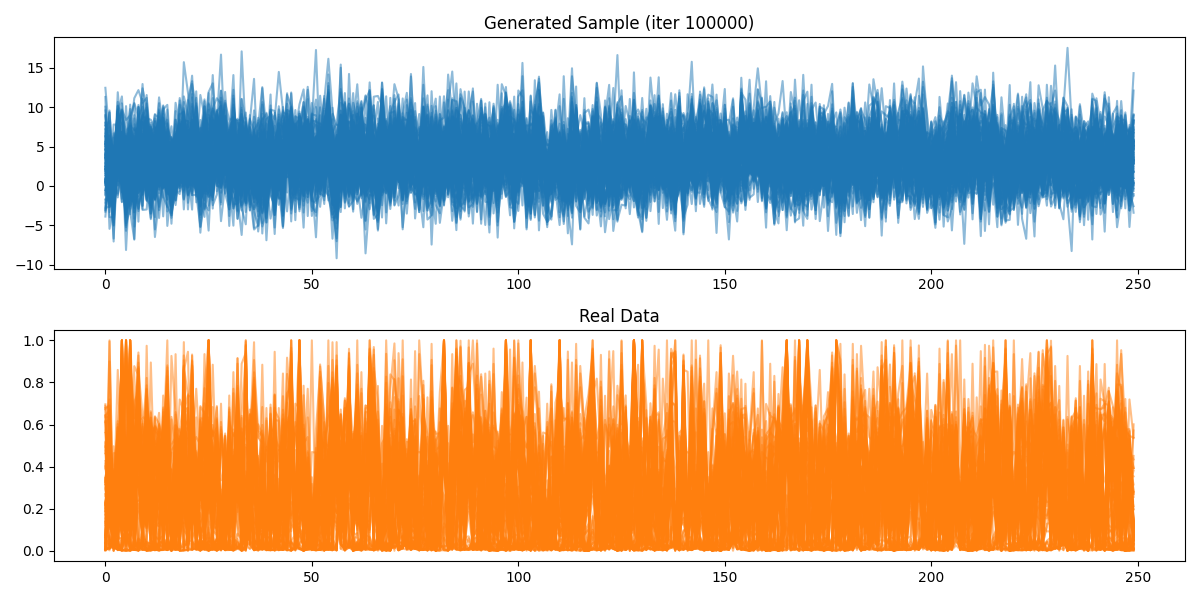
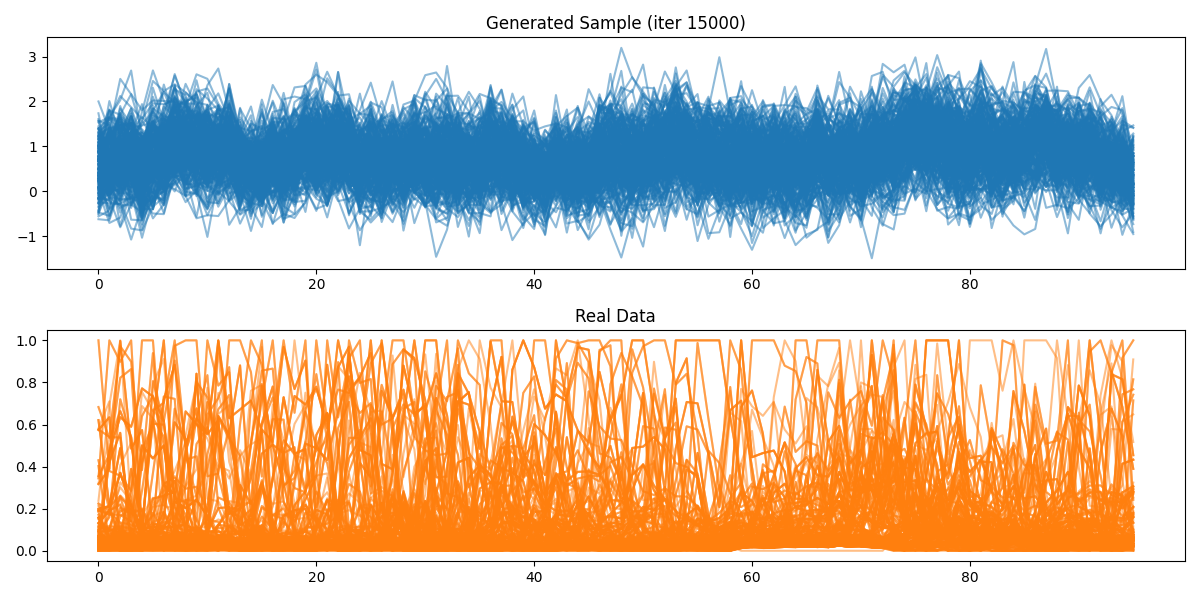
add

diff --git a/exp/exp_second_round/conditional_generativemodels/nf_train.py b/exp/exp_second_round/conditional_generativemodels/nf_train.py
@@ -23,13 +23,13 @@ def main():
     data_path = 'exp/data_process_for_data_collection_all/new_data_15minute_grid_nomerge.pkl'
     save_dir_root = 'exp/exp_second_round/conditional_generativemodels'
     N, L = 250, 96
-    random_sample_num = 32
+    random_sample_num = 4
     hidden_channels = 128
     K_blocks = 3
     lr = 2e-4
     weight_decay = 1e-4
-    max_iters = 100000
-    log_every = 100
+    max_iters = 2000001
+    log_every = 200
 
     subdir = os.path.join(save_dir_root, f'{random_sample_num}shot')
     os.makedirs(subdir, exist_ok=True)
@@ -40,10 +40,16 @@ def main():
     dataset = Dataloader_nolabel(data_path, batch_size=batch_size, split_ratio=split_ratio)
 
     # model & opt
-    model = nf.CNicemModel(input_c=N, hidden_c=hidden_channels, condition_c=random_sample_num, n_layers=K_blocks).to(device)
+    model = nf.CNicemModel(input_c=N, hidden_c=hidden_channels, condition_c=random_sample_num, n_layers=K_blocks, scaler_dim=L).to(device)
+    num_para = sum(p.numel() for p in model.parameters() if p.requires_grad)
     print(f"Model #params: {sum(p.numel() for p in model.parameters() if p.requires_grad)}")
     
-    opt = optim.AdamW(model.parameters(), lr=lr, weight_decay=weight_decay)
+    # load model
+    path = os.path.join(save_dir_root, f'{random_sample_num}shot/flow_{num_para}_{random_sample_num}shot.pt')
+    if os.path.exists(path):
+        model.load_state_dict(torch.load(path, map_location=device))
+    
+    opt = optim.Adam(model.parameters(), lr=lr, weight_decay=weight_decay)
 
     best = float('inf')
     ckpt_path = os.path.join(subdir, f'flow_{sum(p.numel() for p in model.parameters() if p.requires_grad)}_{random_sample_num}shot.pt')
@@ -57,13 +63,14 @@ def main():
         # per-sample, per-channel min-max
         x_min = x.min(dim=1, keepdim=True).values
         x_max = x.max(dim=1, keepdim=True).values
-        x0 = (x - x_min) / (x_max - x_min + 1e-15)
-
+        x0 = (x - x_min) / (x_max - x_min + 1e-15)   # (B,N,L)
+        x0 = x0[:, :, :]
         # condition: random N' channels
         cond = rs.random_sample(x0, 'random', random_sample_num).to(device)
 
         # forward
-        z, log_det = model.forward(x0, cond)
+        fake_con = torch.ones_like(cond)
+        z, log_det = model.forward(x0, fake_con)
         loss = 0.5 * (z**2).sum(dim=(1,2)) - log_det
         
         loss = loss.mean()
@@ -73,7 +80,7 @@ def main():
         loss.backward()
         opt.step()
         
-        print(f"iter {it}: loss = {loss.item():.4f}, best = {best:.4f}")
+        print(f"iter {it}: loss = {loss.item():.4f}, best = {best:.4f}", 'log_det mean: ', log_det.mean().item())
             
             
         if it % log_every == 0:
@@ -87,12 +94,16 @@ def main():
             model.eval()
             with torch.no_grad():
                 # sample from N(0,I)
+                L = x0.shape[2]
                 z_sample = torch.randn(batch_size, N, L, device=device) 
+                print('z_sample mean: ', z_sample.mean().item(), ' std: ', z_sample.std().item())
+                print('x0 mean: ', x0.mean().item(), ' std: ', x0.std().item())
+                print('z', z.mean().item(), ' std: ', z.std().item())   
                 
                 # random cond
                 cond = rs.random_sample(x0, 'random', random_sample_num).to(device)
                 
-                x_sample, _ = model.inverse(z_sample, cond)   # (B,N,L)
+                x_sample, _ = model.inverse(z_sample, fake_con)   # (B,N,L)
                 
                
                 x_sample = x_sample.cpu().numpy()
@@ -100,10 +111,10 @@ def main():
                 # plot first sample's all channels and  real data
                 plt.figure(figsize=(12,6))
                 plt.subplot(2,1,1)
-                plt.plot(x_sample[0], alpha=0.5, color='C0')
+                plt.plot(x_sample[0].T, alpha=0.5, color='C0')
                 plt.title(f"Generated Sample (iter {it})")
                 plt.subplot(2,1,2)
-                plt.plot(x0[0].cpu().numpy(), alpha=0.5, color='C1')
+                plt.plot(x0[0].cpu().numpy().T, alpha=0.5, color='C1')
                 plt.title(f"Real Data")
                 plt.tight_layout()
                 plt.savefig(os.path.join(subdir, f'sample_iter.png'))

diff --git a/exp/exp_second_round/conditional_generativemodels/nf_model.py b/exp/exp_second_round/conditional_generativemodels/nf_model.py
@@ -12,11 +12,11 @@ class Conv1DBlock(torch.nn.Module):
         super(Conv1DBlock, self).__init__()
         self.model = nn.Sequential(
             torch.nn.Conv1d(in_channels, hid_channels, kernel_size, stride, padding),
-            # nn.BatchNorm1d(hid_channels),
+            nn.BatchNorm1d(hid_channels),
             torch.nn.ReLU(),
             
             torch.nn.Conv1d(hid_channels, hid_channels, kernel_size, stride, padding),
-            # nn.BatchNorm1d(out_channels),
+            nn.BatchNorm1d(hid_channels),
             torch.nn.ReLU(),
             
             torch.nn.Conv1d(hid_channels, out_channels, kernel_size, stride, padding)
@@ -33,7 +33,7 @@ class CNiceModelBasic(torch.nn.Module):
                  hidden_c: int = 64,
                  condition_c: int = 128,
                  split_ratio: float = 0.5,
-                
+                 scaler_dim: int = 96
                  ):
         
         super(CNiceModelBasic, self).__init__()
@@ -57,6 +57,10 @@ class CNiceModelBasic(torch.nn.Module):
             hid_channels=self.hidden_c,
             out_channels=int(self.input_c * self.split_ratio)
         )
+        
+        # add scaler parameters if needed here with shape (1, 1, dim)
+        scaler = nn.Parameter(torch.ones(1, 1, scaler_dim))
+        self.register_parameter('scaler', scaler)
 
     def forward_direction(self, x, c):
        
@@ -74,12 +78,20 @@ class CNiceModelBasic(torch.nn.Module):
         # Combine the outputs
         x3 = torch.cat([x31, x32], dim=1)
         
-        return x3, 1 
+        # scaler operation
+        x3 = x3 * torch.exp(self.scaler)
+        
+        log_det_jacobian = torch.sum(self.scaler) * x.size(0)
+        return x3, log_det_jacobian
     
     def inverse_direction(self, x3, c):
 
+        # inverse scaler operation
+        x3 = x3 * torch.exp(-self.scaler)
+        log_det_jacobian = -torch.sum(self.scaler) * x3.size(0)
+        
         # Split the input tensor
-        x31, x32 = x3[:, :self.split_dim2], x3[:, self.split_dim2:]
+        x31, x32 = x3[:, :self.split_dim1], x3[:, self.split_dim1:]
         
         # x2
         x22 = x32
@@ -92,7 +104,7 @@ class CNiceModelBasic(torch.nn.Module):
         # Combine the outputs
         x1 = torch.cat([x11, x12], dim=1)
 
-        return x1, 1
+        return x1, log_det_jacobian
     
 class CNicemModel(torch.nn.Module):
     def __init__(self, 
@@ -101,7 +113,7 @@ class CNicemModel(torch.nn.Module):
                     condition_c: int = 128,
                     n_layers: int = 1,
                     split_ratio: float = 0.5,
-                    
+                    scaler_dim: int = 96
                     ):
             
             super(CNicemModel, self).__init__()
@@ -118,7 +130,8 @@ class CNicemModel(torch.nn.Module):
                         input_c=self.input_c,
                         hidden_c=self.hidden_c,
                         condition_c=self.condition_c,
-                        split_ratio=self.split_ratio
+                        split_ratio=self.split_ratio,
+                        scaler_dim=scaler_dim
                     )
                 )
             
@@ -126,14 +139,14 @@ class CNicemModel(torch.nn.Module):
         log_det_jacobian = 0
         for layer in self.model:
             x, det = layer.forward_direction(x, c)
-            log_det_jacobian += 0
+            log_det_jacobian += det
         return x, log_det_jacobian
 
     def inverse(self, x, c):
         log_det_jacobian = 0
         for layer in reversed(self.model):
             x, det = layer.inverse_direction(x, c)
-            log_det_jacobian += 0
+            log_det_jacobian += det
         return x, log_det_jacobian
     
 
@@ -142,7 +155,7 @@ if __name__ == "__main__":
     C_N = 5
     x = torch.randn(B, N, L)
     c = torch.randn(B, C_N, L)
-    model = CNicemModel(input_c=N, condition_c=C_N, n_layers=4)
+    model = CNicemModel(input_c=N, condition_c=C_N, n_layers=4, scaler_dim=L)
     y, log_det = model.forward(x, c)
     x_recon, log_det_inv = model.inverse(y, c)
     print("Input shape:", x.shape)

diff --git a/exp/exp_second_round/eva/evaconditionalgen/plot_result_ddpm_flow.py b/exp/exp_second_round/eva/evaconditionalgen/plot_result_ddpm_flow.py
@@ -66,7 +66,7 @@ flow = nfmodel.CNicemModel(input_c=250,
 
 # load flow 4 shot
 if random_sample_num_vae == 4:
-    path = 'exp/exp_second_round/conditional_generativemodels/4shot/flow_882414_4shot.pt'
+    path = 'exp/exp_second_round/conditional_generativemodels/4shot/flow_885774_4shot.pt'
 elif random_sample_num_vae == 8:
     path = 'exp/exp_second_round/conditional_generativemodels/8shot/flow_882414_8shot.pt'
 elif random_sample_num_vae == 16:
@@ -141,7 +141,7 @@ for i in range(len(_sample_indx)):
     r_samples_part_list.append(samples_partial.cpu().detach().numpy())
     ddpm_sample_list.append(samples_ddpm.cpu().detach().numpy())
     # t_samples_list.append(samples_gmm.cpu().detach().numpy())
-    f_samples_list.append(samples_flow.cpu().detach().numpy())
+    f_samples_list.append(samples_flow.cpu().detach().numpy() * 0.5)
     
 t_samples_list = r_samples_part_list
 save_path = f'exp/exp_second_round/conditional_generativemodels/{random_sample_num_vae}shot/plot/{random_sample_num_vae}_plot_ddpmflow.png'

diff --git a/exp/exp_second_round/eva/evaconditionalgen/eva_function.py b/exp/exp_second_round/eva/evaconditionalgen/eva_function.py
@@ -243,8 +243,8 @@ def plot_colored_curves(num, ax, data, title, total_consumption, color_map, norm
     # Rotate the x-axis labels for better readability
     plt.setp(ax.get_xticklabels(), rotation=45, ha='right', rotation_mode='anchor')
     # add a small text box to indicate the num
-    text = "Sample Index: {}".format(num)
-    ax.text(0.02, 0.95, text, transform=ax.transAxes, fontsize=tick_fontsize, verticalalignment='top', bbox=dict(boxstyle='round', facecolor='white', alpha=0.5))
+    # text = "Sample Index: {}".format(num)
+    # ax.text(0.02, 0.95, text, transform=ax.transAxes, fontsize=tick_fontsize, verticalalignment='top', bbox=dict(boxstyle='round', facecolor='white', alpha=0.5))
     
 
 def create_plots(t_samples_list, r_samples_list, r_samples_part_list, timesnet_sample_list, path, label_fontsize=26, tick_fontsize=20):

diff --git a/exp/exp_second_round/conditional_generativemodels/vae_model.py b/exp/exp_second_round/conditional_generativemodels/vae_model.py
@@ -91,7 +91,13 @@ if __name__ == "__main__":
     # Example usage
     model = ConvPoolVAE1D(input_shape=(250, 96), condition_shape=(8, 96), latent_channels=16)
     x = torch.randn(4, 250, 96)
-    recon, mu, logvar = model(x, x)
+    cond = torch.randn(4, 8, 96)
+    mu, logvar = model.encode(x, cond=cond)
+    print("Encoded mu shape:", mu.shape)         # should be (4, 16, 96)
+    print("Encoded logvar shape:", logvar.shape) # should be (4,
+    print("Input shape:", x.shape)               # should be (4, 250, 96)
+    # print("Encoded feature shape:", x_encoder.shape)  # should be (4, hidden
+    recon, mu, logvar = model(x, cond=cond)
     print("recon:", recon.shape)   # should be (4,1,96)
     print("mu   :", mu.shape)      # -> (4,16,12)
     print("logvar:", logvar.shape) # -> (4,16,12)
